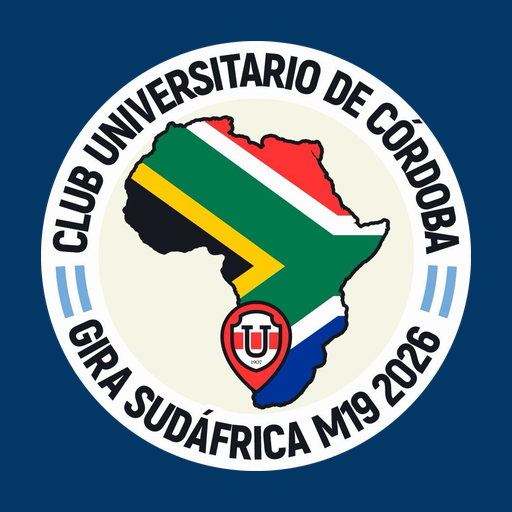
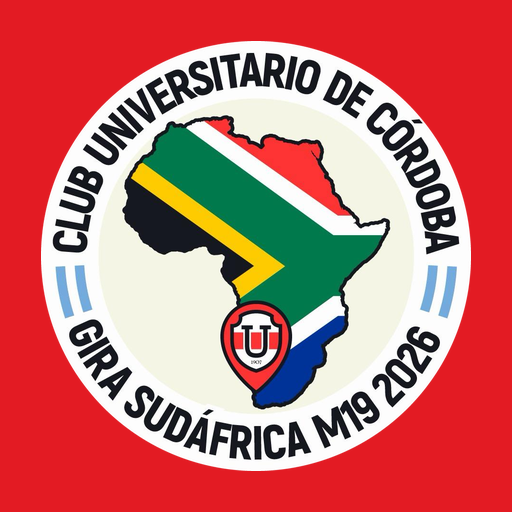
Colores de la gira: rojo y blanco, con verde, amarillo y negro de Sudáfrica
Claude-Session: https://claude.ai/code/session_01Ttu94J4hcZ2mP2abhhzRYc

diff --git a/styles.css b/styles.css
@@ -1,34 +1,40 @@
+/* Colores de la gira: rojo y blanco (club) + verde, amarillo y negro (Sudáfrica) */
 :root {
-  --blue: #033766;
-  --blue-2: #0a4a85;
   --red: #E31B23;
+  --red-dark: #B3141B;
+  --green: #007A4D;
   --gold: #FFB612;
-  --bg: #F4F4F1;
+  --black: #111111;
+  --accent: var(--red);
+  --bg: #F6F5F3;
   --surface: #ffffff;
-  --ink: #0F1B2D;
-  --muted: #5d6675;
-  --line: #e2e2dc;
-  --soft-blue: #e6eef6;
+  --ink: #161616;
+  --muted: #666260;
+  --line: #e6e2df;
+  --soft: #f3efed;
   --soft-red: #fde8e9;
+  --soft-green: #e2f2ea;
   --soft-gold: #fff4d9;
   --radius: 16px;
-  --shadow: 0 1px 2px rgba(15, 27, 45, .06), 0 6px 20px rgba(15, 27, 45, .05);
+  --shadow: 0 1px 2px rgba(0, 0, 0, .05), 0 6px 20px rgba(0, 0, 0, .04);
   --nav-h: 64px;
   color-scheme: light;
 }
 @media (prefers-color-scheme: dark) {
   :root {
-    --blue: #5b9be0;
-    --blue-2: #0b2c4f;
     --red: #ff4d55;
+    --red-dark: #a3121a;
+    --green: #2fae78;
     --gold: #ffc640;
-    --bg: #0b1320;
-    --surface: #131d2c;
-    --ink: #eef2f7;
-    --muted: #9aa6b8;
-    --line: #233147;
-    --soft-blue: #13304f;
+    --accent: #ff5a61;
+    --bg: #111111;
+    --surface: #1b1b1b;
+    --ink: #f3f1f0;
+    --muted: #a39e9b;
+    --line: #2d2b2a;
+    --soft: #262322;
     --soft-red: #3a1619;
+    --soft-green: #12301f;
     --soft-gold: #3a2e10;
     --shadow: none;
     color-scheme: dark;
@@ -46,14 +52,14 @@ body {
 img { max-width: 100%; display: block; }
 button, input, select, textarea { font: inherit; color: inherit; }
 button { cursor: pointer; }
-a { color: var(--blue); }
+a { color: var(--accent); }
 [hidden] { display: none !important; }
 
 .wrap { max-width: 720px; margin: 0 auto; padding: 0 16px; }
 
 /* Encabezado */
 .top {
-  background: #033766; color: #fff;
+  background: #E31B23; color: #fff;
   padding: calc(14px + env(safe-area-inset-top)) 0 14px;
 }
 .top .wrap { display: flex; align-items: center; gap: 12px; }
@@ -71,7 +77,7 @@ a { color: var(--blue); }
 @keyframes spin { to { transform: rotate(360deg); } }
 
 .clocks {
-  background: #022a4f; color: #fff; font-size: .82rem;
+  background: #111111; color: #fff; font-size: .82rem;
 }
 .clocks .wrap { display: flex; align-items: center; gap: 14px; padding-top: 8px; padding-bottom: 8px; }
 .clock { display: flex; gap: 6px; align-items: baseline; }
@@ -82,7 +88,7 @@ a { color: var(--blue); }
   border: 0; background: transparent; color: #fff; opacity: .75;
   padding: 4px 10px; border-radius: 999px; font-size: .75rem; font-weight: 700;
 }
-.zone-switch button[aria-pressed="true"] { background: #fff; color: #033766; opacity: 1; }
+.zone-switch button[aria-pressed="true"] { background: #fff; color: #111111; opacity: 1; }
 
 .offline {
   background: var(--soft-gold); color: var(--ink);
@@ -104,10 +110,10 @@ main { padding: 18px 0 28px; }
   font-size: .72rem; font-weight: 600; position: relative;
 }
 .tabs svg { width: 24px; height: 24px; }
-.tabs button[aria-current="page"] { color: var(--blue); }
+.tabs button[aria-current="page"] { color: var(--accent); }
 .tabs button[aria-current="page"]::before {
   content: ""; position: absolute; top: 0; left: 30%; right: 30%; height: 3px;
-  border-radius: 0 0 3px 3px; background: var(--blue);
+  border-radius: 0 0 3px 3px; background: var(--accent);
 }
 .badge {
   position: absolute; top: 8px; left: calc(50% + 6px);
@@ -129,9 +135,9 @@ main { padding: 18px 0 28px; }
 .section-title:first-child { margin-top: 0; }
 
 /* Bloque "Ahora" / "Lo que sigue" */
-.hero { border: 0; color: #fff; background: #033766; padding: 18px; }
+.hero { border: 0; color: #fff; background: #007A4D; padding: 18px; }
 .hero.now { background: var(--red); }
-@media (prefers-color-scheme: dark) { .hero.now { background: #c4161d; } .hero { background: #0a3d70; } }
+@media (prefers-color-scheme: dark) { .hero.now { background: #c4161d; } .hero { background: #00653f; } }
 .hero .kicker {
   display: inline-flex; align-items: center; gap: 6px;
   font-size: .74rem; font-weight: 800; letter-spacing: .1em; text-transform: uppercase;
@@ -145,20 +151,20 @@ main { padding: 18px 0 28px; }
 .hero .meta { opacity: .92; font-size: .95rem; }
 .hero .count { margin-top: 10px; font-weight: 700; font-size: 1.05rem; }
 .hero .chip { background: rgba(255, 255, 255, .18); color: #fff; border-color: transparent; }
-.hero .chip.warn { background: #FFB612; color: #0F1B2D; }
+.hero .chip.warn { background: #FFB612; color: #111111; }
 .hero .after { margin-top: 14px; padding-top: 12px; border-top: 1px solid rgba(255, 255, 255, .25); font-size: .9rem; opacity: .95; }
 .hero .detail { margin: 8px 0 0; font-size: .9rem; opacity: .92; white-space: pre-line; }
 .hero a { color: #fff; }
 
 .big-count { text-align: center; padding: 28px 16px; }
-.big-count .n { font-size: 4.5rem; font-weight: 800; line-height: 1; color: var(--blue); }
+.big-count .n { font-size: 4.5rem; font-weight: 800; line-height: 1; color: var(--red); }
 .big-count p { margin: 6px 0 0; color: var(--muted); }
 
 /* Chips */
 .chips { display: flex; flex-wrap: wrap; gap: 6px; margin-top: 8px; }
 .chip {
   display: inline-flex; align-items: center; gap: 4px;
-  border: 1px solid var(--line); background: var(--soft-blue); color: var(--ink);
+  border: 1px solid var(--line); background: var(--soft); color: var(--ink);
   border-radius: 999px; padding: 2px 10px; font-size: .78rem; font-weight: 600;
 }
 button.chip::after { content: "›"; opacity: .6; }
@@ -177,7 +183,7 @@ button.chip::after { content: "›"; opacity: .6; }
 }
 .timeline > li:first-child { border-top: 0; padding-top: 2px; }
 .timeline > li:last-child { padding-bottom: 0; }
-.timeline .time { font-weight: 800; font-variant-numeric: tabular-nums; color: var(--blue); line-height: 1.25; }
+.timeline .time { font-weight: 800; font-variant-numeric: tabular-nums; color: var(--ink); line-height: 1.25; }
 .timeline .time small { display: block; font-weight: 500; color: var(--muted); font-size: .78rem; }
 .timeline .act { font-weight: 650; line-height: 1.3; }
 .timeline .place { color: var(--muted); font-size: .88rem; }
@@ -191,7 +197,7 @@ button.chip::after { content: "›"; opacity: .6; }
 .timeline li.now:first-child::before { top: 2px; }
 .state { font-size: .68rem; font-weight: 800; text-transform: uppercase; letter-spacing: .06em; margin-left: 6px; }
 li.now .state { color: var(--red); }
-li.next .state { color: var(--blue); }
+li.next .state { color: var(--green); }
 
 /* Días */
 .day {
@@ -203,11 +209,11 @@ li.next .state { color: var(--blue); }
   display: flex; align-items: center; gap: 12px;
 }
 .day > summary::-webkit-details-marker { display: none; }
-.day > summary::after { content: "+"; margin-left: auto; color: var(--blue); font-weight: 800; font-size: 1.2rem; }
+.day > summary::after { content: "+"; margin-left: auto; color: var(--red); font-weight: 800; font-size: 1.2rem; }
 .day[open] > summary::after { content: "−"; }
 .day .num {
   flex: 0 0 auto; width: 46px; text-align: center; border-radius: 10px;
-  background: var(--soft-blue); padding: 4px 0; line-height: 1.1;
+  background: var(--soft); padding: 4px 0; line-height: 1.1;
 }
 .day .num b { display: block; font-size: 1.2rem; }
 .day .num span { font-size: .66rem; text-transform: uppercase; font-weight: 700; color: var(--muted); }
@@ -237,7 +243,7 @@ li.next .state { color: var(--blue); }
 .notice.important { border-left: 4px solid var(--gold); }
 .tag { font-size: .65rem; font-weight: 800; text-transform: uppercase; letter-spacing: .06em; padding: 2px 6px; border-radius: 6px; }
 .tag.new { background: var(--red); color: #fff; }
-.tag.imp { background: var(--gold); color: #0F1B2D; }
+.tag.imp { background: var(--gold); color: #111111; }
 
 /* Info */
 .info-item h3 { margin: 0 0 6px; font-size: 1rem; }
@@ -252,8 +258,7 @@ dialog {
   border: 0; border-radius: 18px; padding: 20px; max-width: min(440px, calc(100vw - 32px));
   width: 100%; background: var(--surface); color: var(--ink); box-shadow: 0 20px 60px rgba(0, 0, 0, .3);
 }
-dialog::backdrop { background: rgba(15, 27, 45, .5); }
+dialog::backdrop { background: rgba(0, 0, 0, .5); }
 dialog h3 { margin: 0 0 8px; }
 dialog p { margin: 0 0 10px; white-space: pre-line; }
-dialog .close { width: 100%; padding: 12px; border: 0; border-radius: 12px; background: var(--blue); color: #fff; font-weight: 700; }
-@media (prefers-color-scheme: dark) { dialog .close { background: #0a4a85; } }
+dialog .close { width: 100%; padding: 12px; border: 0; border-radius: 12px; background: #E31B23; color: #fff; font-weight: 700; }

diff --git a/administrador/admin.css b/administrador/admin.css
@@ -13,7 +13,7 @@ input[type="text"], input[type="password"], input[type="date"], input[type="time
   font-size: 16px; min-width: 0;
 }
 textarea { resize: vertical; min-height: 64px; line-height: 1.4; }
-input:focus, select:focus, textarea:focus { outline: 2px solid var(--blue); outline-offset: -1px; }
+input:focus, select:focus, textarea:focus { outline: 2px solid var(--accent); outline-offset: -1px; }
 
 .btn {
   display: inline-flex; align-items: center; justify-content: center; gap: 6px;
@@ -21,12 +21,12 @@ input:focus, select:focus, textarea:focus { outline: 2px solid var(--blue); outl
   background: var(--surface); color: var(--ink); font-weight: 650; font-size: .9rem;
   text-decoration: none; white-space: nowrap;
 }
-.btn.primary { background: #033766; border-color: #033766; color: #fff; }
+.btn.primary { background: #E31B23; border-color: #E31B23; color: #fff; }
 .btn.primary:disabled { opacity: .45; cursor: default; }
 .btn.ghost { background: transparent; }
 .btn.danger { color: var(--red); }
 .btn.small { padding: 5px 10px; font-size: .82rem; }
-.btn.add { width: 100%; border-style: dashed; color: var(--blue); }
+.btn.add { width: 100%; border-style: dashed; color: var(--accent); }
 .x {
   width: 34px; height: 34px; flex: 0 0 auto; border-radius: 8px;
   border: 1px solid var(--line); background: var(--surface); color: var(--red); font-size: 1rem;
@@ -36,14 +36,14 @@ input:focus, select:focus, textarea:focus { outline: 2px solid var(--blue); outl
 .bar .wrap:first-child { display: flex; align-items: center; gap: 8px; padding-top: 10px; padding-bottom: 10px; }
 .bar .status { margin-right: auto; font-size: .8rem; color: var(--muted); overflow: hidden; text-overflow: ellipsis; white-space: nowrap; }
 .bar .status.dirty { color: #b07800; font-weight: 700; }
-.bar .status.ok { color: #1f7a4d; }
-@media (prefers-color-scheme: dark) { .bar .status.dirty { color: var(--gold); } .bar .status.ok { color: #4cc38a; } }
+.bar .status.ok { color: var(--green); }
+@media (prefers-color-scheme: dark) { .bar .status.dirty { color: var(--gold); } }
 .admin-tabs { display: flex; gap: 4px; overflow-x: auto; scrollbar-width: none; }
 .admin-tabs button {
   border: 0; background: none; padding: 10px 12px; font-weight: 650; color: var(--muted);
   border-bottom: 3px solid transparent; white-space: nowrap;
 }
-.admin-tabs button[aria-current="page"] { color: var(--blue); border-color: var(--blue); }
+.admin-tabs button[aria-current="page"] { color: var(--accent); border-color: var(--accent); }
 
 #panel { padding-top: 16px; }
 .hint { font-size: .85rem; color: var(--muted); margin: 0 0 14px; }
@@ -62,13 +62,13 @@ input:focus, select:focus, textarea:focus { outline: 2px solid var(--blue); outl
   flex: 1; min-width: 0; text-align: left; border: 0; background: none; padding: 0;
   display: flex; align-items: center; gap: 10px;
 }
-.aday-head .open .num { flex: 0 0 auto; width: 44px; text-align: center; border-radius: 10px; background: var(--soft-blue); padding: 3px 0; line-height: 1.1; }
+.aday-head .open .num { flex: 0 0 auto; width: 44px; text-align: center; border-radius: 10px; background: var(--soft); padding: 3px 0; line-height: 1.1; }
 .aday-head .open .num b { display: block; font-size: 1.1rem; }
 .aday-head .open .num span { font-size: .64rem; text-transform: uppercase; font-weight: 700; color: var(--muted); }
 .aday-head .open .t { font-weight: 700; line-height: 1.25; overflow: hidden; text-overflow: ellipsis; }
 .aday-head .open .t small { display: block; font-weight: 500; color: var(--muted); font-size: .8rem; }
 .aday-body { border-top: 1px solid var(--line); padding: 14px; }
-.aday.on { border-color: #1f7a4d; }
+.aday.on { border-color: var(--green); }
 
 .switch { display: inline-flex; align-items: center; gap: 8px; font-size: .78rem; font-weight: 700; color: var(--muted); flex: 0 0 auto; cursor: pointer; }
 .switch input { position: absolute; opacity: 0; pointer-events: none; }
@@ -79,10 +79,10 @@ input:focus, select:focus, textarea:focus { outline: 2px solid var(--blue); outl
   content: ""; position: absolute; top: 3px; left: 3px; width: 22px; height: 22px; border-radius: 50%;
   background: #fff; box-shadow: 0 1px 3px rgba(0, 0, 0, .25); transition: transform .15s;
 }
-.switch input:checked + i { background: #1f7a4d; }
+.switch input:checked + i { background: var(--green); }
 .switch input:checked + i::after { transform: translateX(18px); }
-.switch input:focus-visible + i { outline: 2px solid var(--blue); outline-offset: 2px; }
-.switch.on { color: #1f7a4d; }
+.switch input:focus-visible + i { outline: 2px solid var(--accent); outline-offset: 2px; }
+.switch.on { color: var(--green); }
 
 .block { border: 1px solid var(--line); border-radius: 12px; padding: 12px; margin-bottom: 10px; background: var(--bg); }
 .block.hid { opacity: .6; border-style: dashed; }
@@ -104,6 +104,6 @@ input:focus, select:focus, textarea:focus { outline: 2px solid var(--blue); outl
 .footer-actions { display: flex; justify-content: space-between; gap: 8px; margin-top: 14px; flex-wrap: wrap; }
 .toast {
   position: fixed; left: 50%; bottom: 20px; transform: translateX(-50%); z-index: 20;
-  background: #0F1B2D; color: #fff; padding: 10px 16px; border-radius: 12px; font-size: .9rem;
+  background: #111111; color: #fff; padding: 10px 16px; border-radius: 12px; font-size: .9rem;
   box-shadow: 0 8px 30px rgba(0, 0, 0, .3); max-width: calc(100vw - 32px);
 }

diff --git a/index.html b/index.html
@@ -3,7 +3,7 @@
 <head>
   <meta charset="utf-8">
   <meta name="viewport" content="width=device-width, initial-scale=1, viewport-fit=cover">
-  <meta name="theme-color" content="#033766">
+  <meta name="theme-color" content="#E31B23">
   <meta name="description" content="Cronograma, vestimenta y avisos de la Gira Sudáfrica M19 del Club Universitario de Córdoba.">
   <title>Gira Sudáfrica M19</title>
   <link rel="manifest" href="/manifest.webmanifest">

diff --git a/administrador/index.html b/administrador/index.html
@@ -4,7 +4,7 @@
   <meta charset="utf-8">
   <meta name="viewport" content="width=device-width, initial-scale=1, viewport-fit=cover">
   <meta name="robots" content="noindex, nofollow">
-  <meta name="theme-color" content="#033766">
+  <meta name="theme-color" content="#E31B23">
   <title>Administrador · Gira M19</title>
   <link rel="icon" href="/icons/icon-192.png">
   <link rel="stylesheet" href="/styles.css">

diff --git a/sw.js b/sw.js
@@ -1,5 +1,5 @@
 // Subir VERSION cada vez que se cambien index.html, app.js o styles.css
-const VERSION = 'v5';
+const VERSION = 'v6';
 const SHELL = ['/', '/styles.css', '/app.js', '/manifest.webmanifest', '/icons/logo.png', '/icons/icon-192.png'];
 
 self.addEventListener('install', (e) => {
